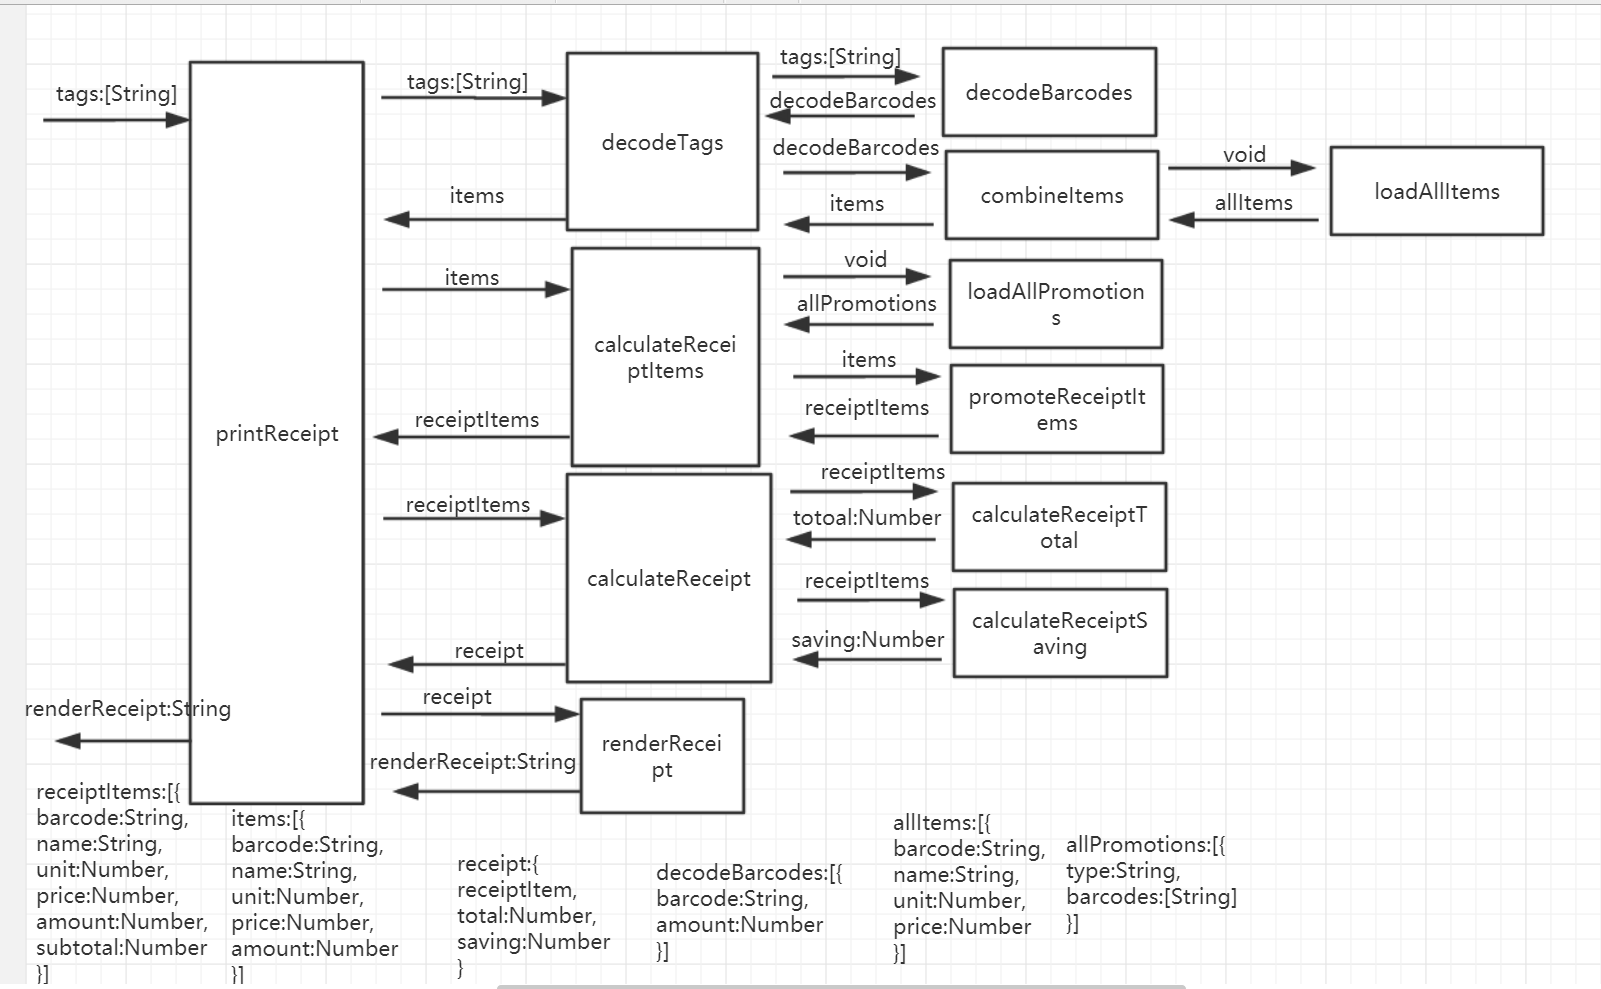
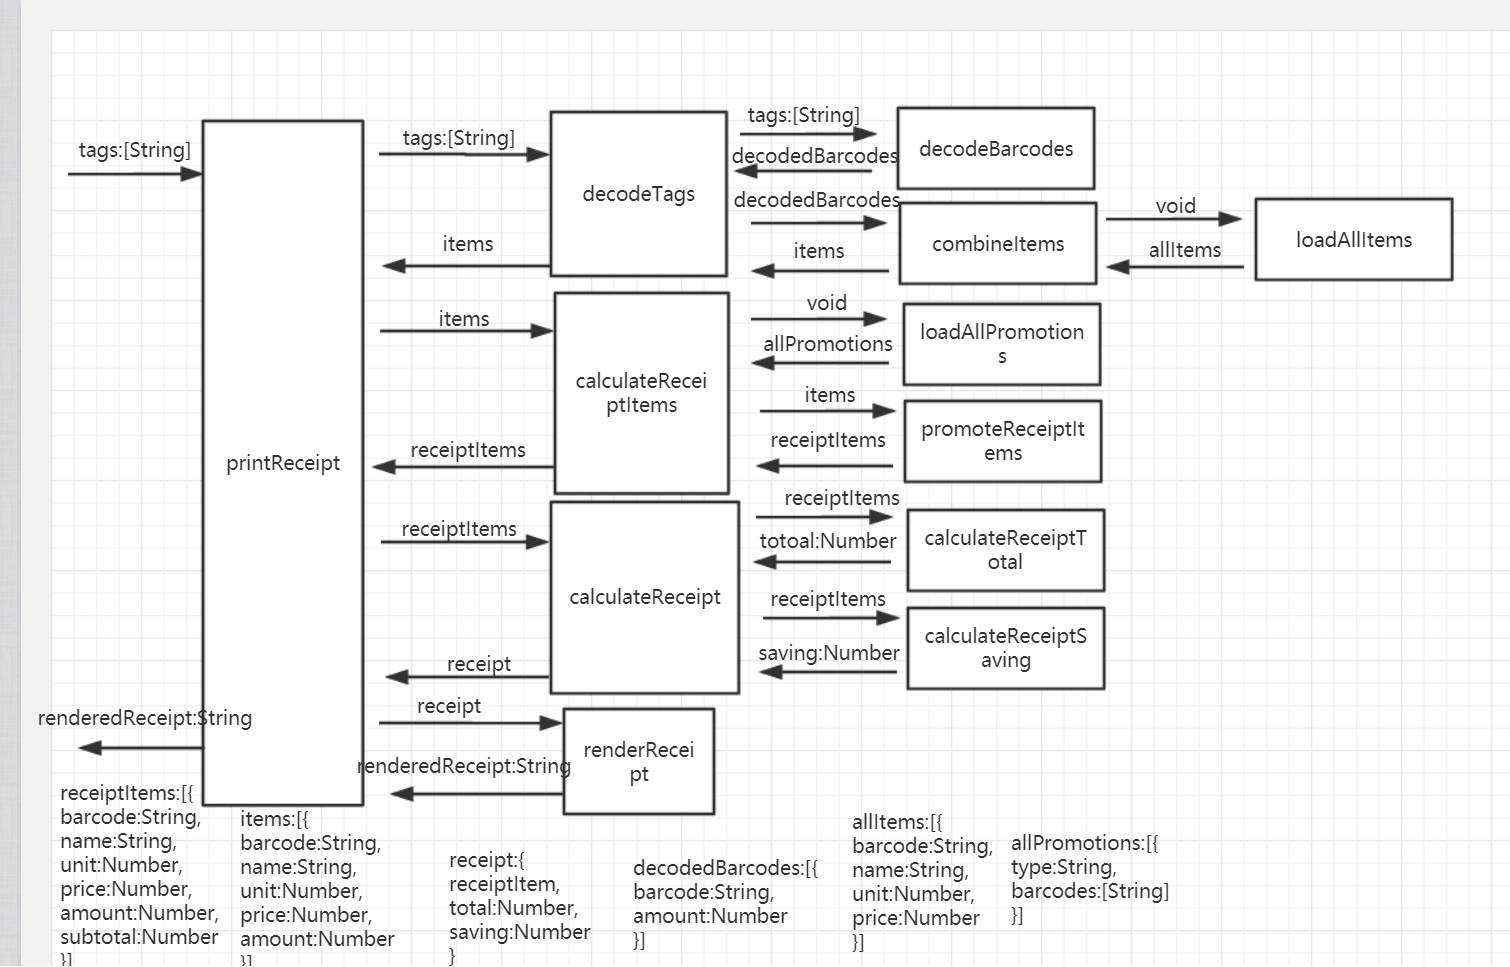
feat:finished renderReceipt

Changed region(s): [[0.0, 0.0, 0.9649, 1.0], [0.8404, 0.1241, 0.9649, 0.1551]]

diff --git a/test/main-test.js b/test/main-test.js
@@ -325,4 +325,45 @@ it('should calculate Receipt', () => {
     saving : 7.50
   });
 });
+//test renderReceipt
+it('should render Receipt', () => {
+
+  const receipt = {
+    receiptItems : [
+      { barcode: "ITEM000001",
+        amount: 5,
+        name: '雪碧',
+        unit: '瓶',
+        price: 3.00,
+        subtotal: 12.00
+      },
+      { barcode: "ITEM000003", 
+        amount: 2.5,
+        name: '荔枝',
+        unit: '斤',
+        price: 15.00,
+        subtotal: 37.50
+      },
+      { barcode: "ITEM000005", 
+        amount: 3,
+        name: '方便面',
+        unit: '袋',
+        price: 4.50,
+        subtotal: 9.00
+      }
+      ],
+    total : 58.50,
+    saving : 7.50
+  };
+  const result = renderReceipt(receipt);
+  const expectText = `***<没钱赚商店>收据***
+名称：雪碧，数量：5瓶，单价：3.00(元)，小计：12.00(元)
+名称：荔枝，数量：2.5斤，单价：15.00(元)，小计：37.50(元)
+名称：方便面，数量：3袋，单价：4.50(元)，小计：9.00(元)
+----------------------
+总计：58.50(元)
+节省：7.50(元)
+**********************`;
+  expect(result).toEqual(expectText);
+});
 });

diff --git a/main/main.js b/main/main.js
@@ -64,3 +64,11 @@ const calculateReceipt = receiptItems =>{
     receipt.saving = saving;
     return receipt;
 }
+const renderReceipt = receipt => {
+    let renderedReceipt = `***<没钱赚商店>收据***\n`;
+    for(let i of receipt.receiptItems){
+        renderedReceipt = renderedReceipt + `名称：${i.name}，数量：${i.amount}${i.unit}，单价：${(i.price.toFixed(2))}(元)，小计：${i.subtotal.toFixed(2)}(元)\n`;
+    }
+    renderedReceipt = renderedReceipt + `----------------------\n总计：${receipt.total.toFixed(2)}(元)\n节省：${receipt.saving.toFixed(2)}(元)\n**********************`;
+    return renderedReceipt;
+}
